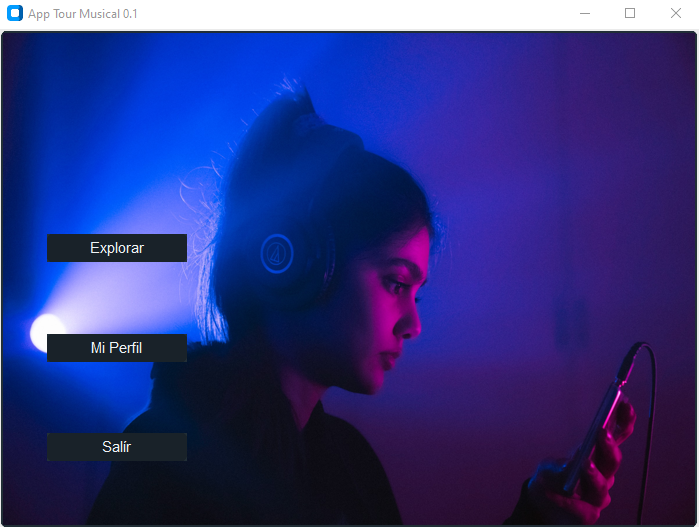
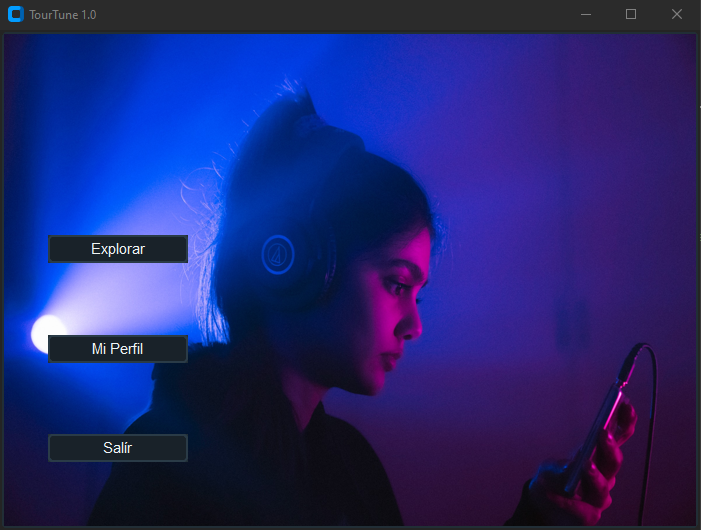
readme update

diff --git a/README.md b/README.md
@@ -1,8 +1,8 @@
 <div align="center">
-  <h1 align="center">App-Tour-Musical</h1>
+  <h1 align="center">TourTune</h1>
 </div>
 
-App-Tour-Musical es una aplicacion destinada al almacenamiento y distribucion de infomacion de eventos musicales. Informacion tal como ubicacion en un mapa, fecha, hora del evento, etc.
+TourTune es una aplicacion destinada al almacenamiento y distribucion de infomacion de eventos musicales. Informacion tal como ubicacion en un mapa, fecha, hora del evento, etc.
 A su mismo tiempo tambien presenta la posibilidad de compartir tu experiencia mediante el uso de comentarios y un sistema de reseña. 
 
 Requiere: `customtkinter` y `PIL`
